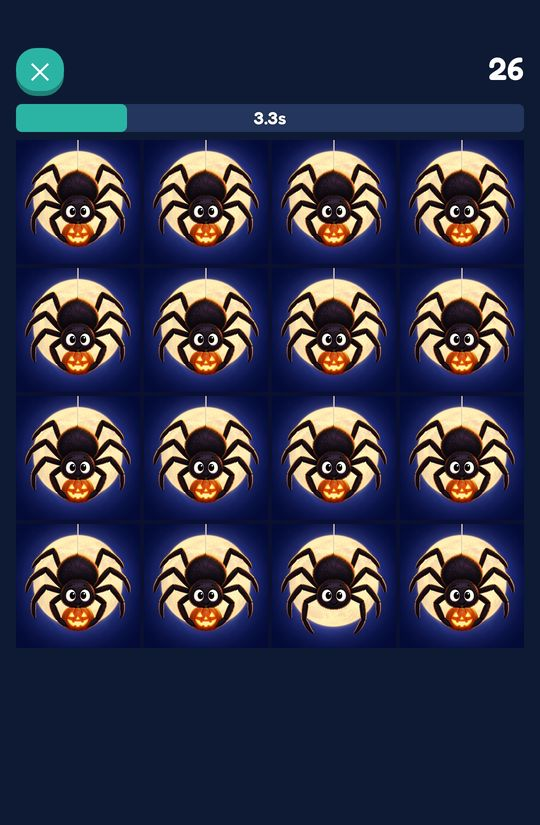
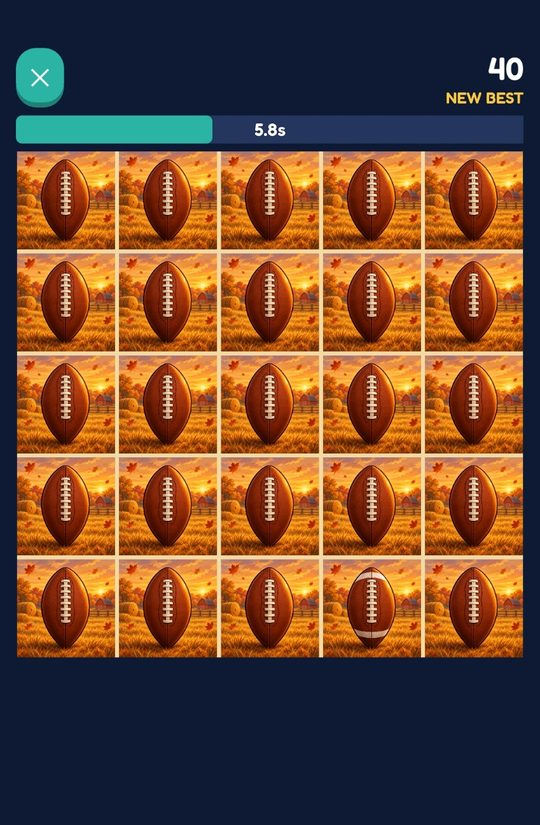
Add files via upload

diff --git a/index.html b/index.html
@@ -135,7 +135,7 @@ footer nav a{margin-right:14px}
   <h2>Take a look</h2>
   <div class="shot-row">
     <img src="/img/shot-1.jpg" width="540" height="825" loading="lazy" alt="A 5 by 5 board of laptops where one screen is a different color">
-    <img src="/img/shot-2.jpg" width="540" height="825" loading="lazy" alt="A board of Halloween spiders with one that is different">
+    <img src="/img/shot-2.jpg" width="540" height="825" loading="lazy" alt="A Thanksgiving board of footballs where one has white stripes">
     <img src="/img/shot-3.jpg" width="540" height="825" loading="lazy" alt="Choosing a picture pack, with the Halloween pack shown">
     <img src="/img/shot-4.jpg" width="540" height="825" loading="lazy" alt="Run over screen showing a new personal best and a new pack unlocked">
   </div>
